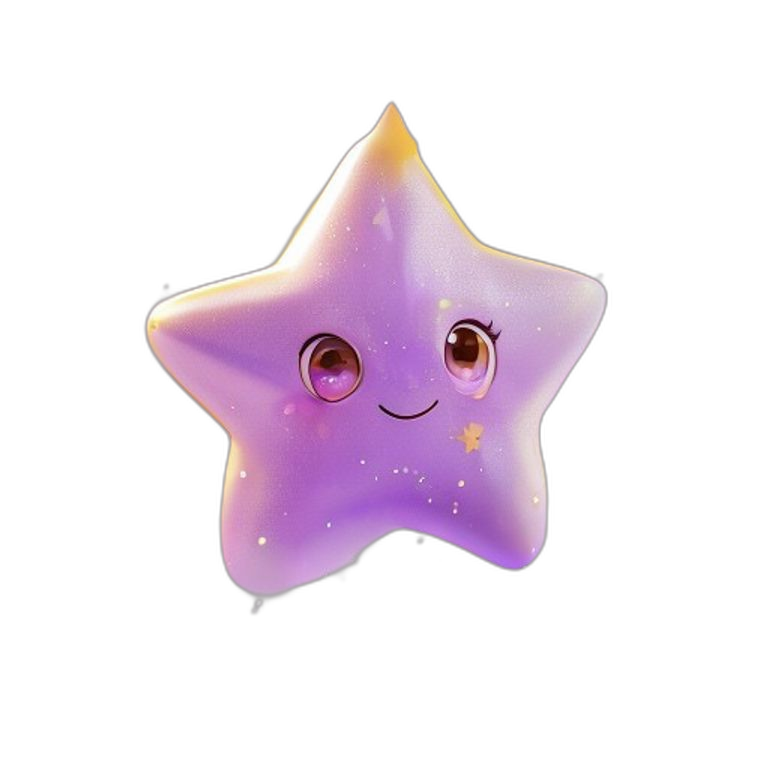
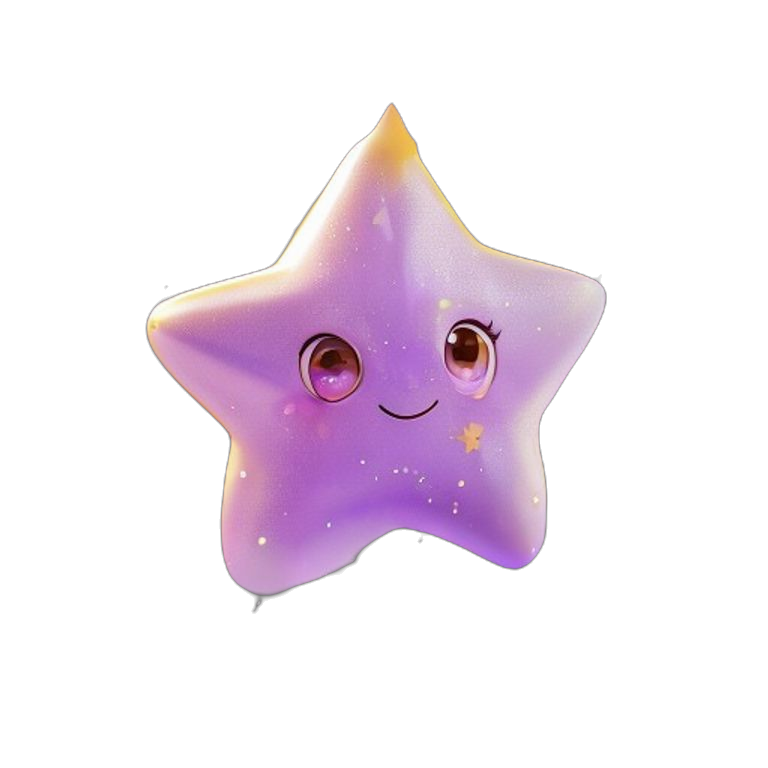
defringe rembg assets and refine hero mascot layout

diff --git a/src/App.css b/src/App.css
@@ -534,7 +534,7 @@
 
 .hero-scene-panel {
   position: relative;
-  min-height: 360px;
+  min-height: 372px;
   border-radius: 36px;
   overflow: hidden;
   background:
@@ -558,11 +558,11 @@
 .hero-scene-panel::after {
   content: '';
   position: absolute;
-  inset: auto 52px 32px 52px;
-  height: 92px;
+  inset: auto 46px 24px 46px;
+  height: 112px;
   border-radius: 999px;
-  background: radial-gradient(circle, rgba(112, 74, 241, 0.26), rgba(112, 74, 241, 0) 70%);
-  filter: blur(8px);
+  background: radial-gradient(circle, rgba(112, 74, 241, 0.28), rgba(112, 74, 241, 0) 72%);
+  filter: blur(12px);
 }
 
 .hero-sidekick-badge,
@@ -575,18 +575,18 @@
 }
 
 .hero-sidekick-badge {
-  left: 26px;
-  top: 110px;
+  left: 30px;
+  top: 128px;
   display: flex;
   align-items: center;
-  gap: 12px;
-  padding: 12px 14px;
-  width: min(44%, 190px);
-  border-radius: 22px;
-  background: rgba(255, 255, 255, 0.66);
+  gap: 10px;
+  padding: 10px 12px;
+  width: min(40%, 172px);
+  border-radius: 20px;
+  background: rgba(255, 255, 255, 0.58);
   border: 1px solid rgba(255, 255, 255, 0.5);
-  box-shadow: 0 18px 34px rgba(111, 94, 187, 0.1);
-  backdrop-filter: blur(12px);
+  box-shadow: 0 14px 30px rgba(111, 94, 187, 0.08);
+  backdrop-filter: blur(10px);
   z-index: 4;
 }
 
@@ -597,27 +597,27 @@
 
 .hero-sidekick-badge strong {
   color: #35295f;
-  font-size: 0.95rem;
+  font-size: 0.9rem;
 }
 
 .hero-sidekick-badge span {
   margin-top: 2px;
   color: #7a6cab;
-  font-size: 0.8rem;
+  font-size: 0.76rem;
 }
 
 .hero-sidekick-image {
-  width: 54px;
-  height: 54px;
+  width: 42px;
+  height: 42px;
   object-fit: contain;
   flex: 0 0 auto;
-  filter: drop-shadow(0 10px 18px rgba(97, 63, 202, 0.16));
+  filter: drop-shadow(0 8px 16px rgba(97, 63, 202, 0.12));
 }
 
 .hero-mascot-stage {
-  right: 18px;
-  bottom: 10px;
-  width: min(68%, 330px);
+  right: 20px;
+  bottom: 14px;
+  width: min(72%, 350px);
   aspect-ratio: 1 / 1;
   overflow: visible;
   z-index: 2;
@@ -630,11 +630,11 @@
 }
 
 .hero-mascot-stage::before {
-  inset: auto 10% 6% 14%;
-  height: 16%;
+  inset: auto 8% 5% 12%;
+  height: 18%;
   border-radius: 999px;
-  background: radial-gradient(circle, rgba(80, 48, 190, 0.24), rgba(80, 48, 190, 0) 72%);
-  filter: blur(10px);
+  background: radial-gradient(circle, rgba(80, 48, 190, 0.22), rgba(80, 48, 190, 0) 74%);
+  filter: blur(14px);
 }
 
 .hero-mascot-stage::after {
@@ -648,10 +648,11 @@
   height: 100%;
   object-fit: contain;
   object-position: bottom right;
-  transform: translateY(3%);
+  transform: translateY(2%);
   filter:
-    saturate(1.05)
-    drop-shadow(0 22px 34px rgba(94, 65, 214, 0.2));
+    saturate(1.04)
+    contrast(1.01)
+    drop-shadow(0 22px 34px rgba(94, 65, 214, 0.16));
   animation: float-soft 4.6s ease-in-out infinite;
   z-index: 2;
 }
@@ -694,8 +695,8 @@
 }
 
 .hero-speech-bottom {
-  left: 26px;
-  bottom: 92px;
+  left: 30px;
+  bottom: 100px;
 }
 
 .hero-stat-card {
@@ -731,8 +732,8 @@
 }
 
 .hero-stat-card-bottom {
-  left: 26px;
-  bottom: 16px;
+  left: 30px;
+  bottom: 24px;
 }
 
 .hero-scene-footer {
@@ -1954,7 +1955,7 @@
   .hero-sidekick-badge {
     left: 18px;
     top: 84px;
-    width: min(52%, 180px);
+    width: min(52%, 168px);
   }
 
   .hero-scene-panel::before {
@@ -1979,12 +1980,12 @@
   .hero-mascot-stage {
     right: 10px;
     bottom: 10px;
-    width: min(86%, 320px);
+    width: min(84%, 316px);
   }
 
   .hero-mascot-image {
-    width: 112%;
-    height: 112%;
+    width: 108%;
+    height: 108%;
   }
 
   .hero-sidekick-badge {

diff --git a/scripts/remove_background.py b/scripts/remove_background.py
@@ -3,7 +3,40 @@ from __future__ import annotations
 import sys
 from pathlib import Path
 
+import numpy as np
+from PIL import Image, ImageFilter
 from rembg import remove
+
+
+def refine_edges(image_bytes: bytes) -> bytes:
+    from io import BytesIO
+
+    source = Image.open(BytesIO(image_bytes)).convert("RGBA")
+    alpha = source.getchannel("A").filter(ImageFilter.MinFilter(3))
+    source.putalpha(alpha)
+
+    rgba = np.asarray(source).astype(np.float32)
+    alpha_arr = rgba[:, :, 3:4] / 255.0
+    rgb_arr = rgba[:, :, :3]
+
+    with np.errstate(divide="ignore", invalid="ignore"):
+        corrected = np.where(
+            alpha_arr > 0,
+            (rgb_arr - (1.0 - alpha_arr) * 255.0) / np.clip(alpha_arr, 0.08, 1.0),
+            0,
+        )
+
+    corrected = np.clip(corrected, 0, 255)
+    rgba[:, :, :3] = corrected
+
+    # Drop faint leftovers that usually cause the thin white contour while animating.
+    low_alpha_mask = rgba[:, :, 3] < 14
+    rgba[low_alpha_mask, 3] = 0
+
+    refined = Image.fromarray(rgba.astype(np.uint8), "RGBA")
+    output = BytesIO()
+    refined.save(output, format="PNG")
+    return output.getvalue()
 
 
 def main() -> int:
@@ -16,6 +49,7 @@ def main() -> int:
 
     data = input_path.read_bytes()
     output = remove(data)
+    output = refine_edges(output)
     output_path.write_bytes(output)
     print(f"saved {output_path}")
     return 0